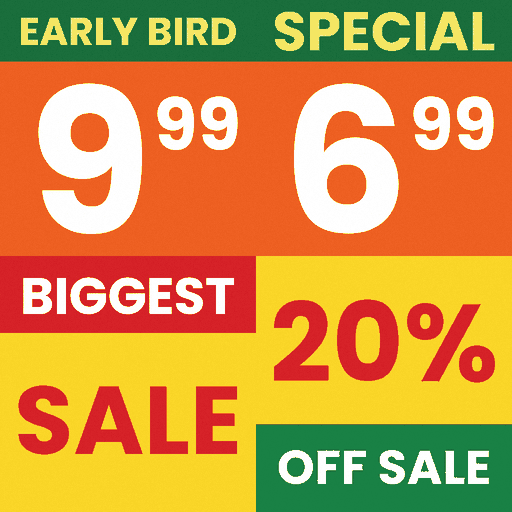
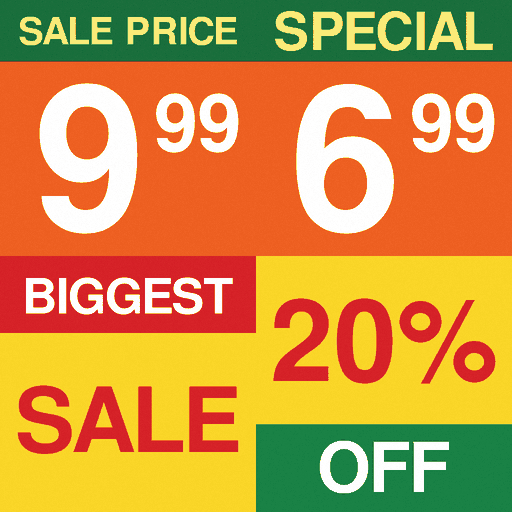
feat: Kay-Bee Toys night lightmap (Ultra); period-review texture fixes
Period grotesque on the boards and cards, plain card wording, an original demo TV frame.
Spec: design/storefronts/kay-bee-toys.md

Claude-Session: https://claude.ai/code/session_01TBPgsU6oM1jg5MnS8pTdgs

diff --git a/prototypes/godot-mall/project/tools/stores/kay_bee/paint_store.py b/prototypes/godot-mall/project/tools/stores/kay_bee/paint_store.py
@@ -17,7 +17,7 @@ from PIL import Image, ImageDraw, ImageFilter, ImageFont
 HERE = os.path.dirname(os.path.abspath(__file__))
 OUT = os.path.join(HERE, "..", "..", "..", "tex", "kb")
 os.makedirs(OUT, exist_ok=True)
-BOLD = "/usr/share/fonts/truetype/google-fonts/Poppins-Bold.ttf"
+BOLD = "/usr/share/fonts/truetype/freefont/FreeSansBold.ttf"   # a Helvetica-type grotesque, right for the early 1990s
 SS = 2   # supersampling for the drawn sheets
 
 
@@ -525,7 +525,7 @@ def cards():
         x0 = k * h
         d.rectangle([x0, 0, x0 + h, h], fill=(238, 96, 34))
         d.rectangle([x0, 0, x0 + h, h * 0.24], fill=(26, 110, 60))
-        fit_text(d, "EARLY BIRD" if k == 0 else "SPECIAL", (x0 + 16 * SS, 6 * SS, x0 + h - 16 * SS, h * 0.22), BOLD, (250, 240, 120))
+        fit_text(d, "SALE PRICE" if k == 0 else "SPECIAL", (x0 + 16 * SS, 6 * SS, x0 + h - 16 * SS, h * 0.22), BOLD, (250, 240, 120))
         fit_text(d, big, (x0 + 20 * SS, h * 0.26, x0 + h * 0.62, h * 0.98), BOLD, (255, 255, 255))
         fit_text(d, small, (x0 + h * 0.60, h * 0.34, x0 + h - 14 * SS, h * 0.62), BOLD, (255, 255, 255))
     # (0,1): yellow SALE sign with red letters; (1,1): "20% OFF"
@@ -536,7 +536,7 @@ def cards():
     d.rectangle([h, h, N, N], fill=(250, 214, 40))
     d.rectangle([h, N - h * 0.34, N, N], fill=(26, 130, 70))
     fit_text(d, "20%", (h + 14 * SS, h + 6 * SS, N - 14 * SS, N - h * 0.36), BOLD, (214, 34, 40))
-    fit_text(d, "OFF SALE", (h + 20 * SS, N - h * 0.32, N - 20 * SS, N - 8 * SS), BOLD, (255, 255, 255))
+    fit_text(d, "OFF", (h + 60 * SS, N - h * 0.32, N - 60 * SS, N - 8 * SS), BOLD, (255, 255, 255))
     im = im.resize((512, 512), Image.LANCZOS)
     save(grain(im, 1.5, 41), "cards", 64)
 
@@ -563,16 +563,18 @@ def screens():
     im = Image.new("RGB", (256, 128), (0, 0, 0))
     d = ImageDraw.Draw(im)
     rng = random.Random(8)
-    d.rectangle([0, 0, 127, 127], fill=(70, 150, 236))
-    d.rectangle([0, 96, 127, 127], fill=(120, 76, 40))
-    d.rectangle([0, 92, 127, 98], fill=(60, 170, 70))
-    for (x, y, w) in [(10, 20, 30), (70, 34, 40), (40, 12, 22)]:
-        d.ellipse([x, y, x + w, y + w * 0.4], fill=(250, 250, 250))
-    for x in (24, 56, 88):
-        d.rectangle([x, 64, x + 16, 72], fill=(220, 150, 60))
-    d.rectangle([60, 78, 70, 92], fill=(220, 40, 40))
-    d.rectangle([62, 72, 68, 78], fill=(240, 200, 160))
-    d.rectangle([100, 82, 112, 92], fill=(90, 50, 130))
+    # an invented top-down space shooter: stars, a small ship, rows of blocky invaders
+    d.rectangle([0, 0, 127, 127], fill=(8, 8, 28))
+    for _ in range(40):
+        x, y = rng.randint(0, 126), rng.randint(0, 126)
+        d.point((x, y), fill=rng.choice([(250, 250, 250), (160, 180, 250), (250, 230, 160)]))
+    for j in range(3):
+        for i in range(6):
+            x, y = 14 + i * 18, 22 + j * 16
+            d.rectangle([x, y, x + 10, y + 7], fill=[(90, 220, 120), (240, 200, 60), (230, 90, 200)][j])
+            d.rectangle([x + 2, y + 2, x + 3, y + 3], fill=(8, 8, 28)); d.rectangle([x + 7, y + 2, x + 8, y + 3], fill=(8, 8, 28))
+    d.polygon([(64, 100), (56, 114), (72, 114)], fill=(120, 200, 250))
+    d.line([64, 96, 64, 84], fill=(250, 250, 250), width=1)
     d.rectangle([4, 4, 40, 9], fill=(250, 250, 250)); d.rectangle([90, 4, 124, 9], fill=(250, 220, 60))
     d.rectangle([128, 0, 255, 127], fill=(6, 14, 8))
     for j in range(7):
